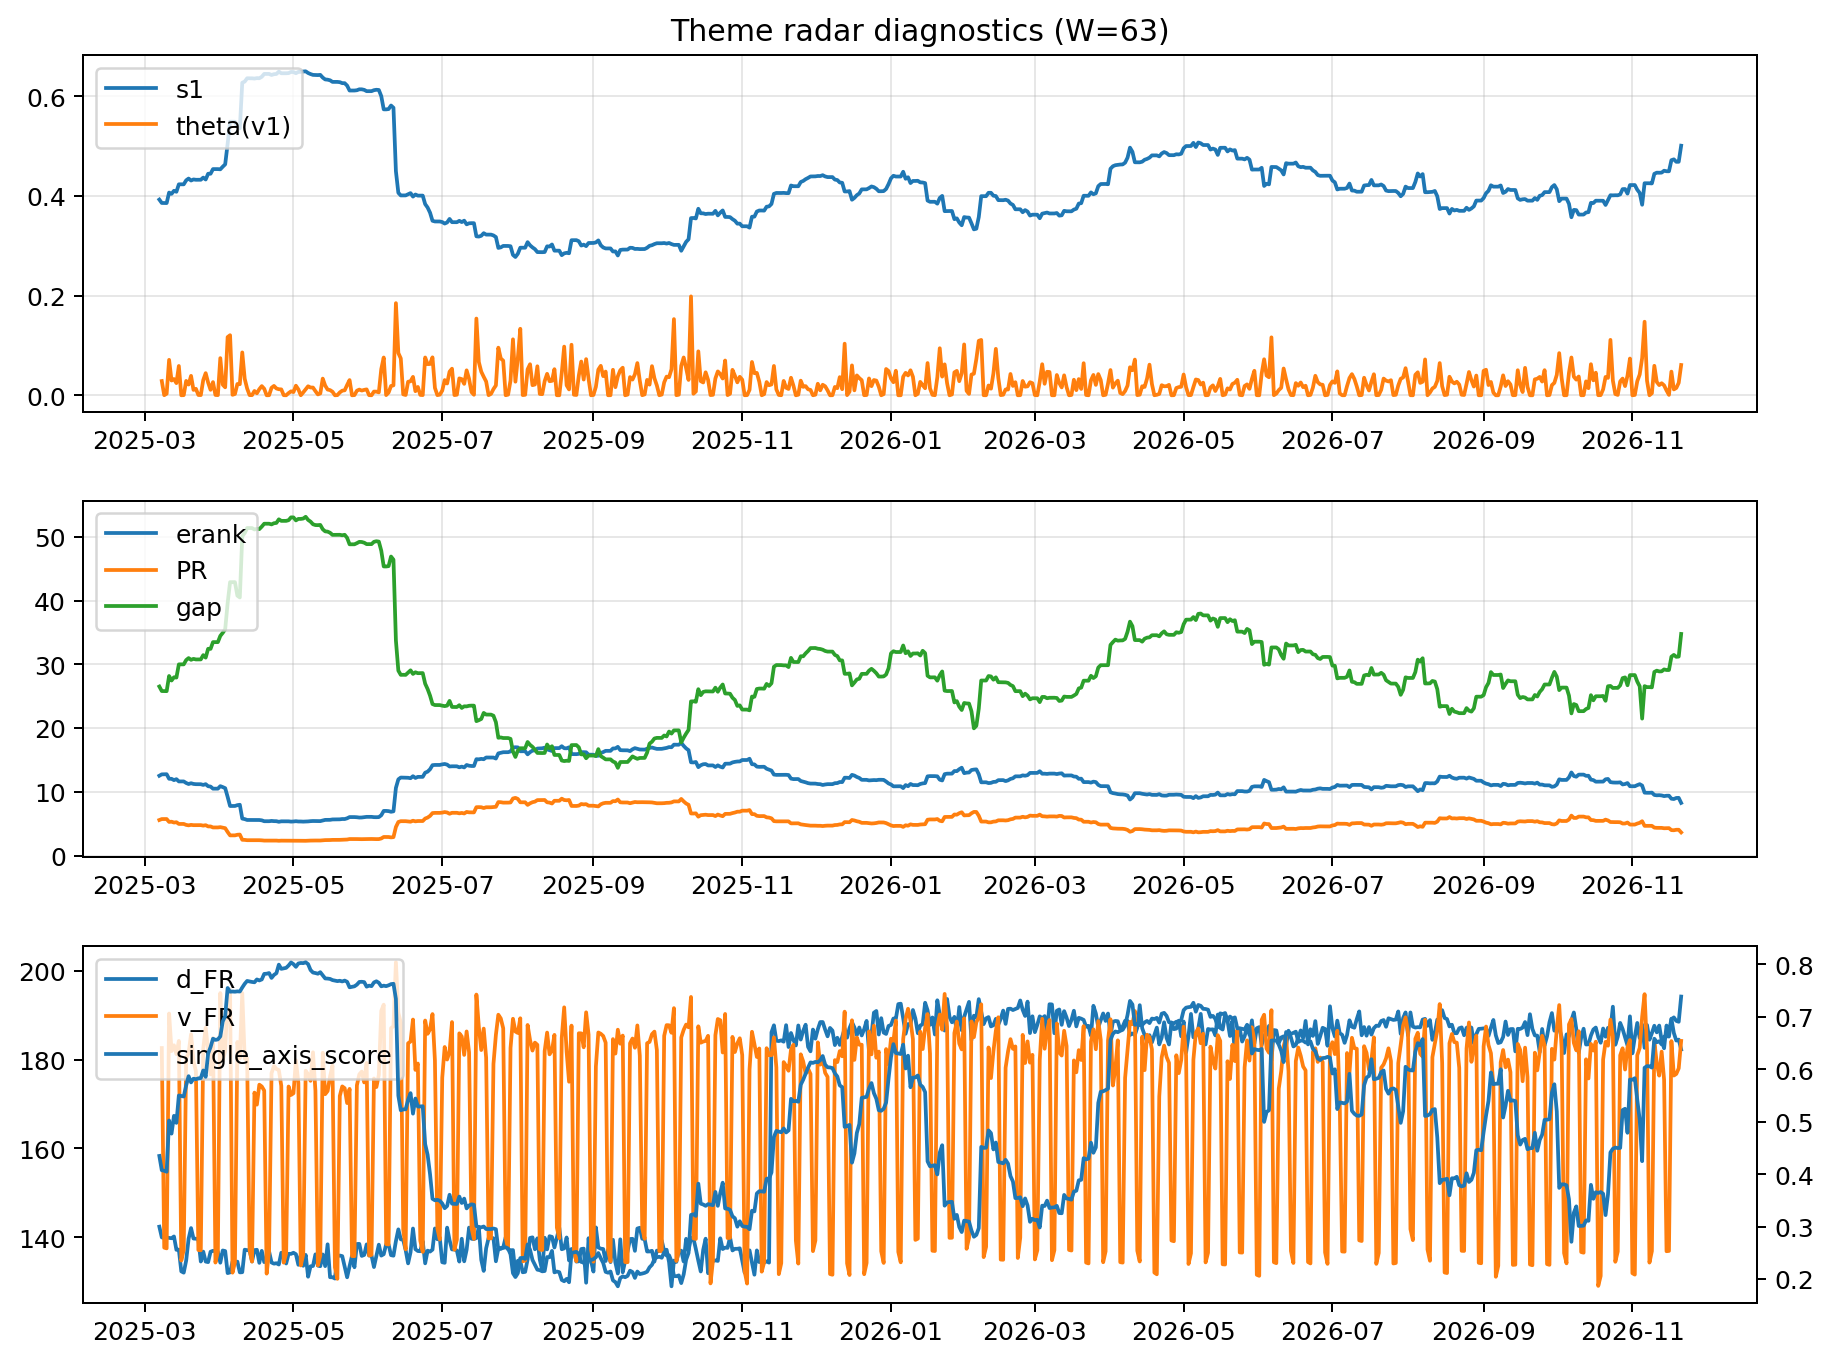
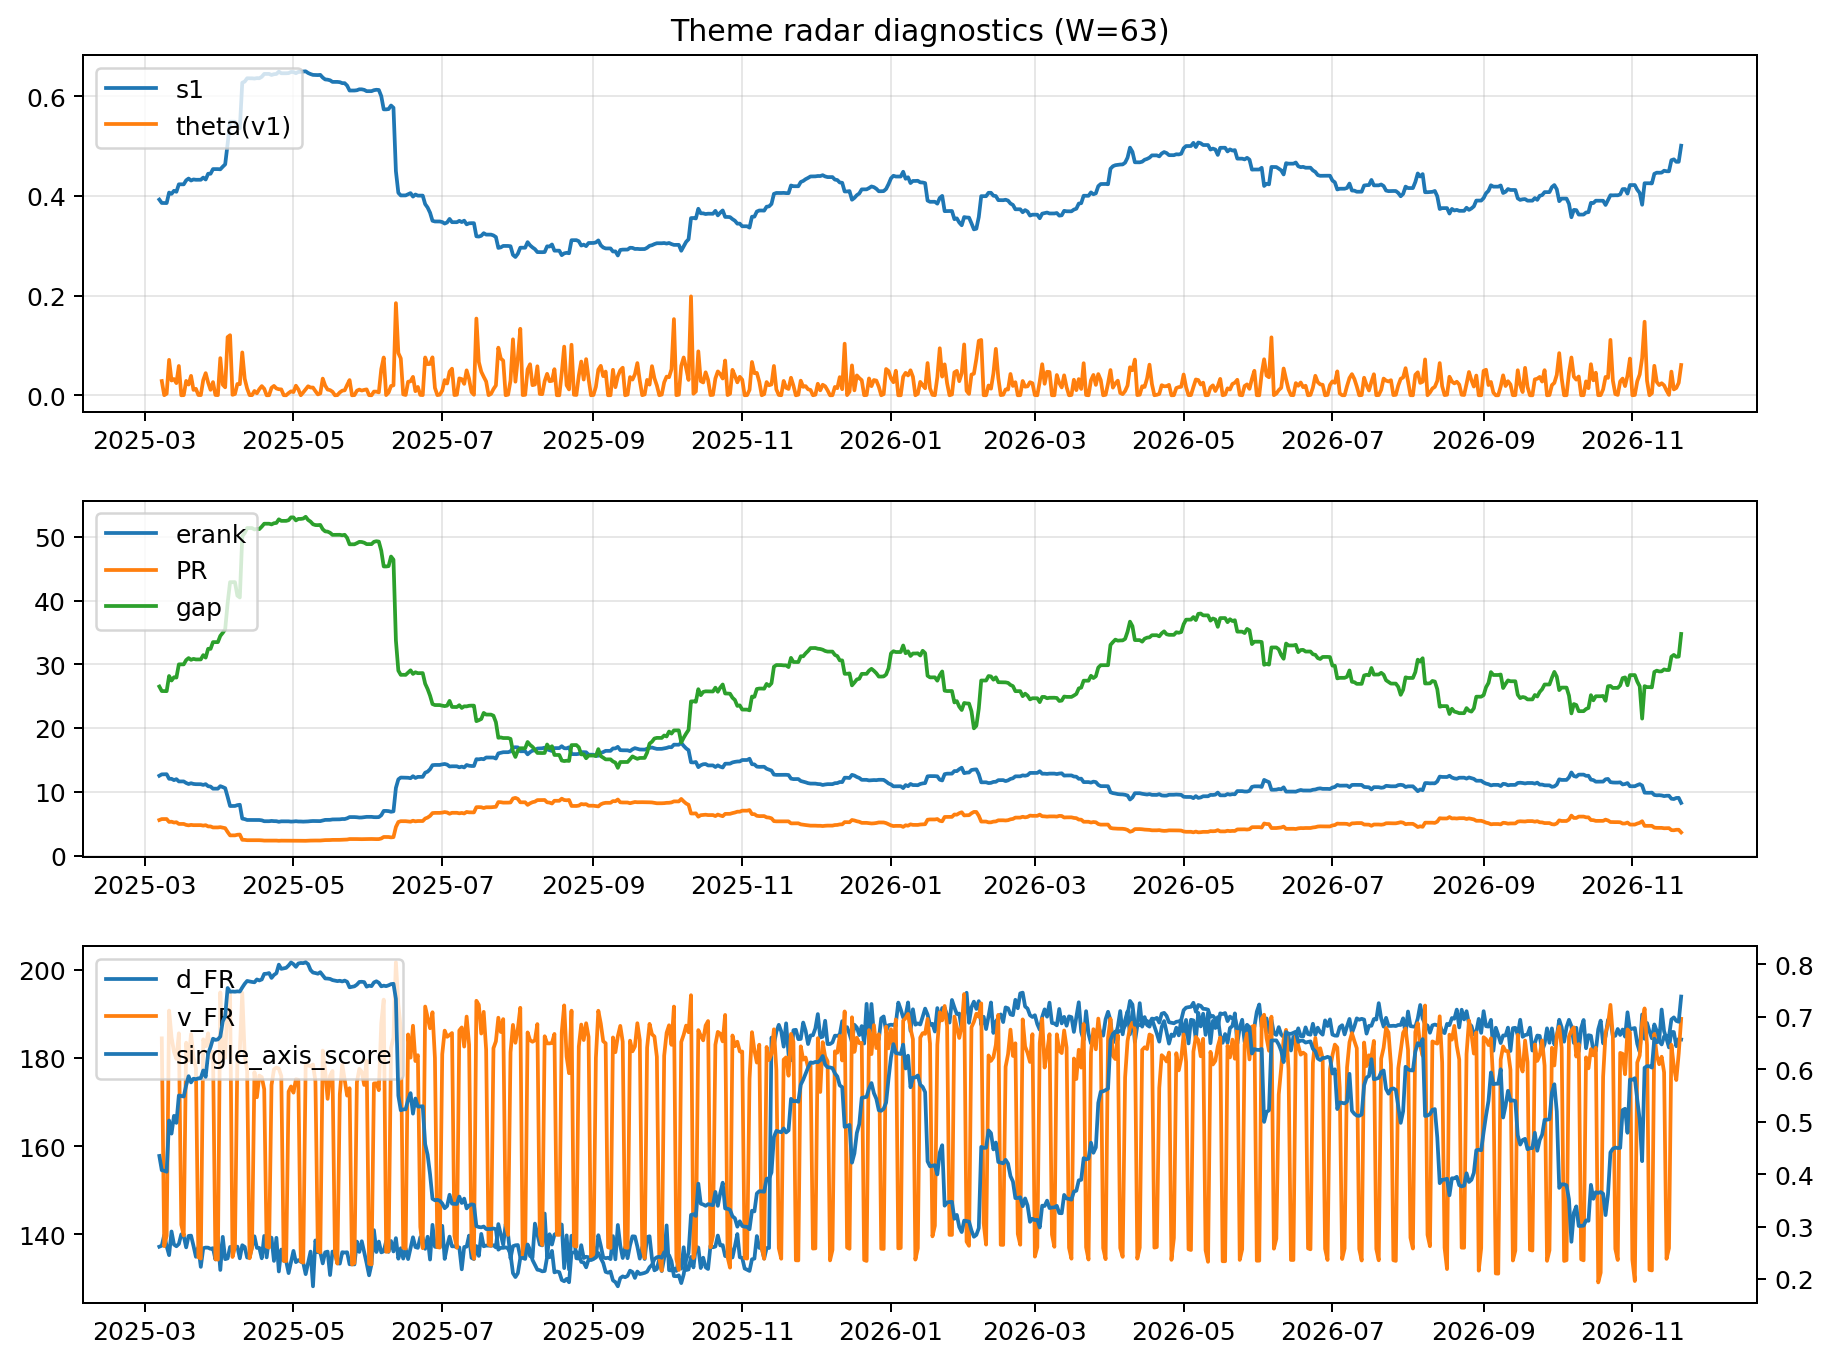
log: 2026-11-21 | sha256:42d2e182879bc2787b7ebeccab4564de5f557cf99b86af62cbaa60d0410b87f5

diff --git a/logs/2026-11-21.md b/logs/2026-11-21.md
@@ -3,52 +3,52 @@
 ![diagnostic W63](../assets/diagnostic/2026-11-21_W63.png)
 
 ## Leaders (v1) — W=63
-- **Nuclear_Uranium** (0.0806796090538321)
-- Semis (0.0714695247592723)
-- Space (0.056460024896848)
+- **Nuclear_Uranium** (0.080679609545076)
+- Semis (0.071469524869457)
+- Space (0.0564600251500045)
 
 ## Challengers — W=63
-**v2:** Rates (0.0977927406607116), Metals (0.0771490919268633), Semis (0.0632916099170009)
-**v3:** Rates (0.1062552133754621), MegaCap_AI (0.0896100461851922), Nuclear_Uranium (0.078720331182741)
+**v2:** Rates (0.0977927555587298), Metals (0.0771490991196999), Semis (0.0632916047791654)
+**v3:** Rates (0.1062551926740799), MegaCap_AI (0.0896100653701791), Nuclear_Uranium (0.0787203537736918)
 
 ## Migration (20D slope) — W=63
 **Top risers:**
-- axis_Drones_Autonomy: 0.0004673616261046
-- axis_Software_Cloud: 0.0004383479760002
-- axis_Cyber: 0.0004151680055404
-- axis_Defense: 0.0003343911569325
-- axis_Genomics_Bio: 0.0003006368460353
-- axis_Sector_Materials: 0.0002290881561895
-- axis_Rates: 0.0002060966350986
-- axis_Sector_Fin: 0.0001983017719832
-- axis_Sector_Comm: 0.0001808862531154
-- axis_Sector_Health: 0.0001722494206669
+- axis_Drones_Autonomy: 0.0004673616320219
+- axis_Software_Cloud: 0.0004383479887389
+- axis_Cyber: 0.0004151680150293
+- axis_Defense: 0.0003343911588802
+- axis_Genomics_Bio: 0.0003006368308703
+- axis_Sector_Materials: 0.0002290881535291
+- axis_Rates: 0.0002060967331115
+- axis_Sector_Fin: 0.0001983017794502
+- axis_Sector_Comm: 0.0001808862582622
+- axis_Sector_Health: 0.0001722494163243
 
 **Top fallers:**
-- axis_DataCenter_Infra: -0.0001371161383826
-- axis_Space: -0.0001499998484699
-- axis_Credit: -0.0001594714317768
-- axis_Semis: -0.0001754179187771
-- axis_Miners: -0.000190076621228
-- axis_Quantum: -0.0001944364235316
-- axis_Sector_Energy: -0.000284431121557
-- axis_Sector_ConsStap: -0.0002861558135992
-- axis_Commodities: -0.00028928136952
-- axis_Metals: -0.0006562825997683
+- axis_DataCenter_Infra: -0.0001371161463559
+- axis_Space: -0.0001499998555072
+- axis_Credit: -0.0001594714313441
+- axis_Semis: -0.000175417937388
+- axis_Miners: -0.0001900766313997
+- axis_Quantum: -0.0001944364231124
+- axis_Sector_Energy: -0.0002844311250567
+- axis_Sector_ConsStap: -0.0002861558134304
+- axis_Commodities: -0.0002892813755846
+- axis_Metals: -0.0006562826097776
 
 ## Risk line (W=63)
-- s1: 0.5006739570711564
-- theta_v1: 0.0607606739507426
-- v_FR: 184.19794153983148
+- s1: 0.5006739553846472
+- theta_v1: 0.0607606736399464
+- v_FR: 188.8781234318844
 - single_axis_score: 0.73824
 
 ## Interpretation
-**Regime:** `theme_migration`
+**Regime:** `structure_rewrite`
 
 - Action: Tomorrow watchlist: Drones_Autonomy, Software_Cloud, Cyber, Defense, Genomics_Bio + v2_top1=Rates
-- Action: Hedge note: normal correlation stability.
+- Action: Hedge note: v_FR high + theta high → correlation structure unstable; diversify hedges / reduce reliance on static correlations.
 
-- Percentiles (W=63 history): vfr_pct=0.73, theta_pct=0.91, s1_pct=0.88, score_pct=0.89.
+- Percentiles (W=63 history): vfr_pct=0.93, theta_pct=0.91, s1_pct=0.88, score_pct=0.89.
 
 ---
[2 lines of base64/hex data omitted]
